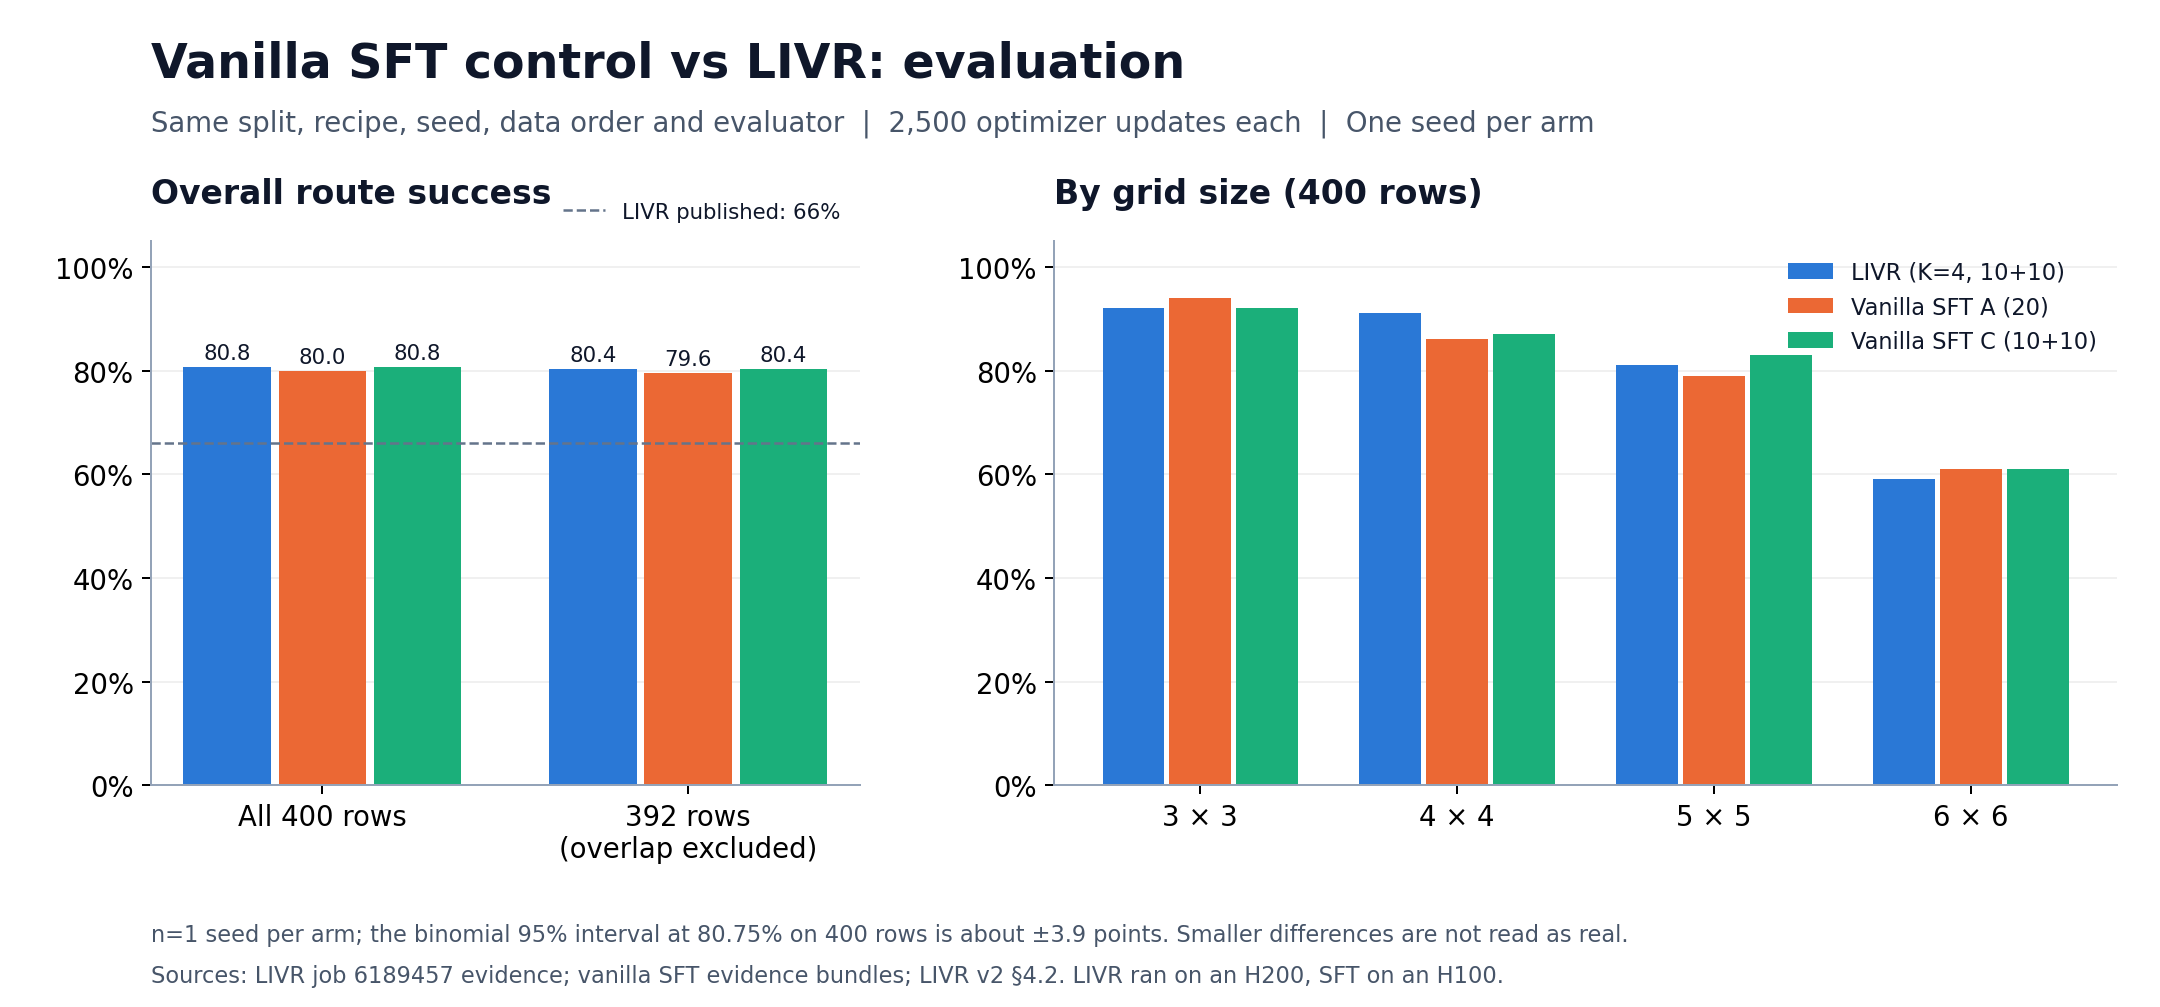
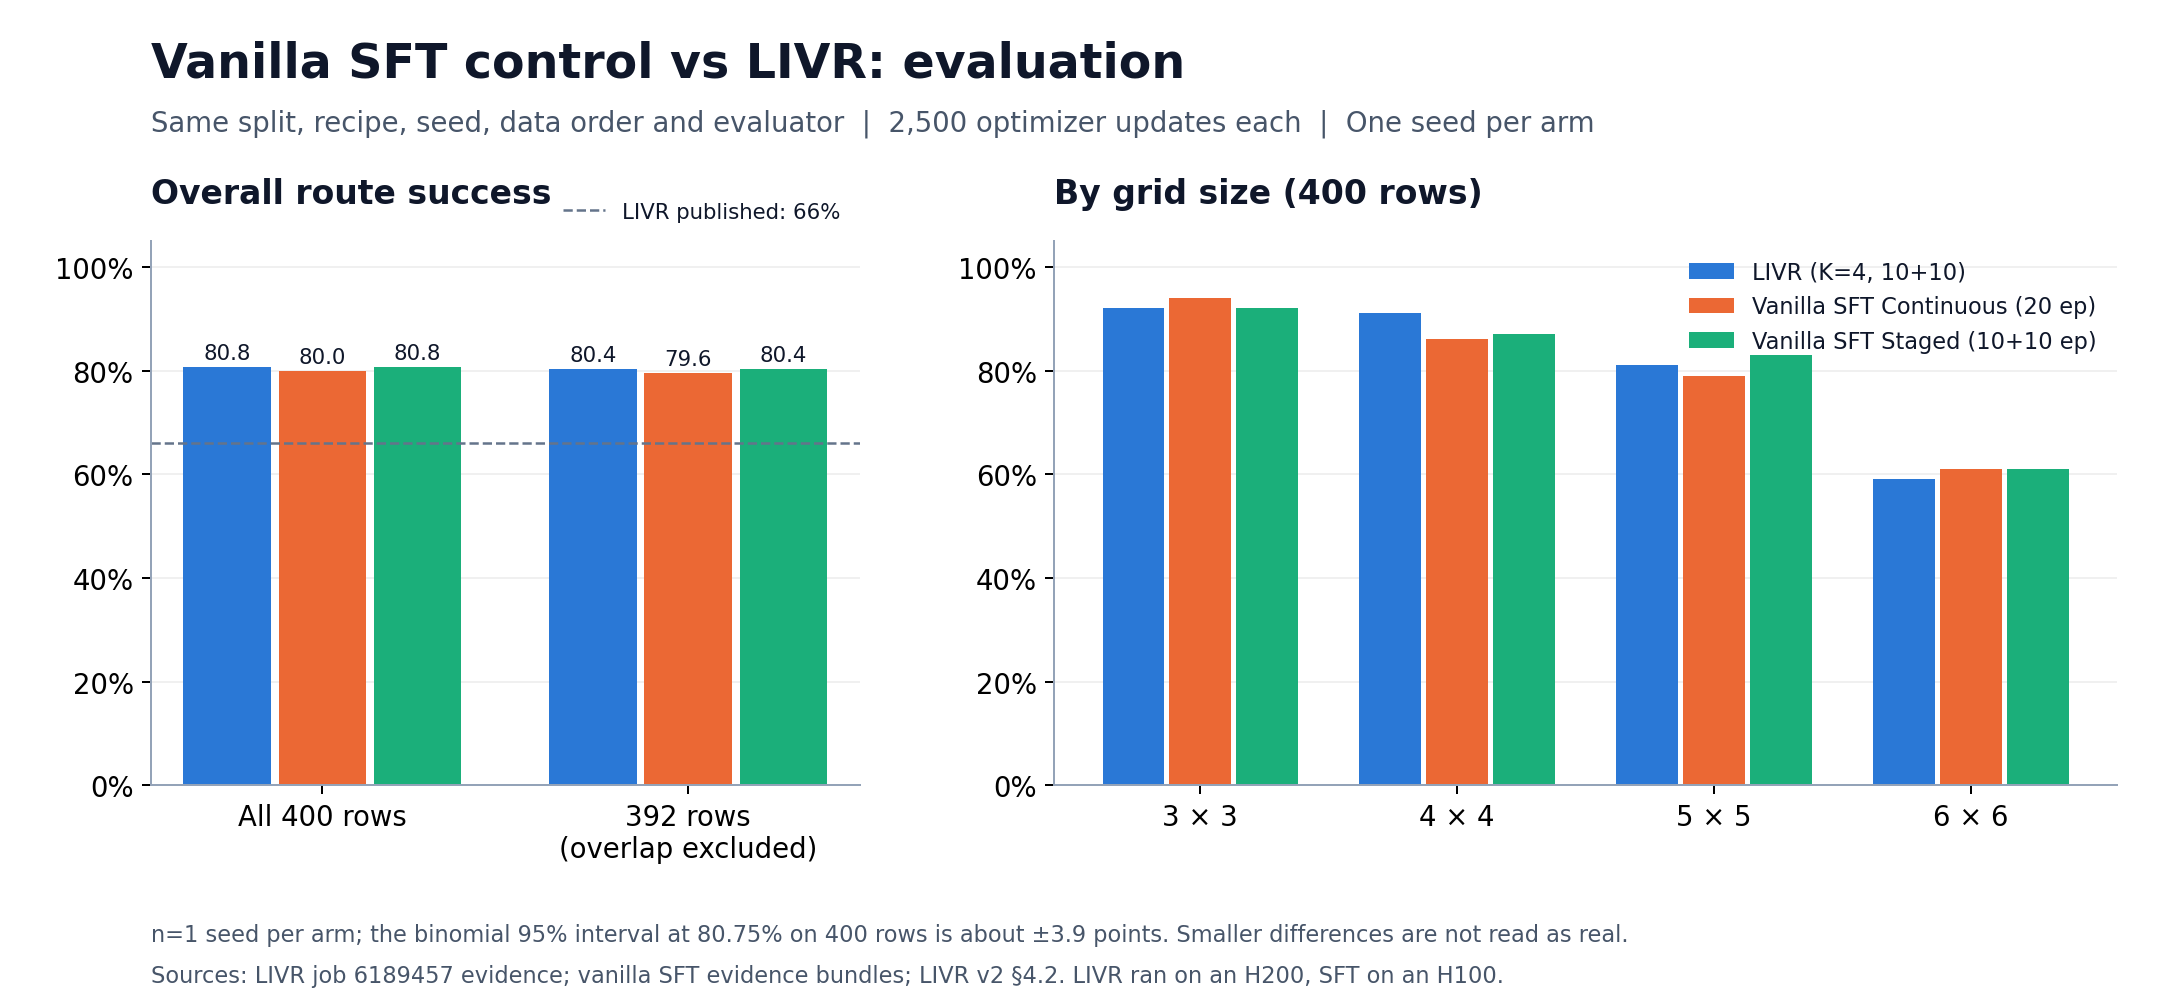
Update SFT runs' naming in results docs

Changed region(s): [[0.7755, 0.2463, 0.9616, 0.3694]]

diff --git a/scripts/plot_sft_comparison.py b/scripts/plot_sft_comparison.py
@@ -10,7 +10,7 @@ matplotlib.use("Agg")
 import matplotlib.pyplot as plt
 from matplotlib.ticker import PercentFormatter
 
-COLORS = ["#2a78d6", "#eb6834", "#1baf7a"]  # fixed categorical order: LIVR, SFT A, SFT C
+COLORS = ["#2a78d6", "#eb6834", "#1baf7a"]  # fixed categorical order: LIVR, Vanilla SFT Continuous (arm A), Vanilla SFT Staged (arm C)
 
 
 def load(evidence, step_files):
@@ -33,8 +33,8 @@ def main():
     parser.add_argument("--output", type=Path, default=project / "docs/figures")
     args = parser.parse_args()
     runs = [("LIVR (K=4, 10+10)", *load(project / "docs/experiments/livr-6189457", ["stage1-steps.jsonl", "stage2-steps.jsonl"])),
-            ("Vanilla SFT A (20)", *load(args.sft_a, ["train-steps.jsonl"])),
-            ("Vanilla SFT C (10+10)", *load(args.sft_c, ["segment1-steps.jsonl", "segment2-steps.jsonl"]))]
+            ("Vanilla SFT Continuous (20 ep)", *load(args.sft_a, ["train-steps.jsonl"])),
+            ("Vanilla SFT Staged (10+10 ep)", *load(args.sft_c, ["segment1-steps.jsonl", "segment2-steps.jsonl"]))]
     # Zero-based overlap rows recorded by the exporter; the test set is shared by all three runs.
     overlap, other = (set(json.loads((path / "evaluation-summary.json").read_text())["excluding_overlap"]["excluded_rows"])
                       for path in (args.sft_a, args.sft_c))
@@ -88,7 +88,7 @@ def main():
     fig, ax = plt.subplots(figsize=(11.4, 5.1))
     fig.subplots_adjust(left=.085, right=.98, top=.76, bottom=.2)
     fig.suptitle("Vanilla SFT control vs LIVR: training loss", x=.085, y=.96, ha="left", fontsize=19, fontweight="bold")
-    fig.text(.085, .865, "Epoch-mean answer-token loss over 20 epochs (125 updates each)  |  Dotted line: LIVR stage / C segment boundary", color="#475569")
+    fig.text(.085, .865, "Epoch-mean answer-token loss over 20 epochs (125 updates each)  |  Dotted line: LIVR stage / Staged restart", color="#475569")
     for color, (label, _, steps) in zip(COLORS, runs):
         by_epoch = defaultdict(list)
         for index, row in enumerate(steps):

diff --git a/docs/SFT_CONTROL_RESULTS.md b/docs/SFT_CONTROL_RESULTS.md
@@ -6,7 +6,7 @@ decision: [ADR-0004](adr/0004-reinstate-vanilla-sft-control.md).
 **On this split, at one seed each, the latent tokens contribute no measurable
 accuracy, and the gap to LIVR's published 66% is not attributable to the latent
 machinery.** Both Direct SFT arms land within ±2 points of the
-[LIVR baseline](LIVR_BASELINE_RESULTS.md) (80.75%). Arm C, which keeps LIVR's
+[LIVR baseline](LIVR_BASELINE_RESULTS.md) (80.75%). Vanilla SFT Staged, which keeps LIVR's
 10+10 segment structure, scored exactly LIVR's 323/400.
 
 This is "no difference detected", not "equal". There is one seed per arm, and the
@@ -16,11 +16,11 @@ inside noise. A seed-variance study is the next question and is out of scope her
 | Method | Optimizer updates | 400 rows | 392 rows | Source |
 | --- | ---: | ---: | ---: | --- |
 | LIVR, K=4, 10+10 epochs | 2,500 | 323/400 = 80.75% | 315/392 = 80.36% | job `6189457` |
-| Direct SFT (A), no latents, 20 epochs | 2,500 | 320/400 = 80.00% | 312/392 = 79.59% | [`sft-a-6259811`](experiments/sft-a-6259811/README.md) |
-| Direct SFT (C), no latents, 10+10 epochs | 2,500 | 323/400 = 80.75% | 315/392 = 80.36% | [`sft-c-6259811`](experiments/sft-c-6259811/README.md) |
+| Vanilla SFT Continuous: no latents, 20 epochs | 2,500 | 320/400 = 80.00% | 312/392 = 79.59% | [`sft-a-6259811`](experiments/sft-a-6259811/README.md) |
+| Vanilla SFT Staged: no latents, 10+10 epochs | 2,500 | 323/400 = 80.75% | 315/392 = 80.36% | [`sft-c-6259811`](experiments/sft-c-6259811/README.md) |
 | LIVR, published 3B | — | 66% | — | LIVR v2 §4.2 |
 
-| Grid | LIVR | SFT A | SFT C |
+| Grid | LIVR | Vanilla SFT Continuous | Vanilla SFT Staged |
 | --- | ---: | ---: | ---: |
 | 3 x 3 | 92 | 94 | 92 |
 | 4 x 4 | 91 | 86 | 87 |
@@ -32,9 +32,9 @@ Per grid, each cell is out of 100. No grid differs by more than 5 rows, and with
 100 rows per grid the per-grid intervals are about ±8–10 points.
 
 Paired by test row, the runs agree on most items rather than matching by chance
-totals. LIVR and C both succeed on 303 rows; each succeeds on 20 rows the other
-fails. LIVR and A: 303 both, 20 LIVR-only, 17 A-only. Exact two-sided McNemar
-p-values are 1.0 (LIVR/C), 0.74 (LIVR/A) and 0.75 (A/C). No answers were invalid
+totals. LIVR and Staged both succeed on 303 rows; each succeeds on 20 rows the other
+fails. LIVR and Continuous: 303 both, 20 LIVR-only, 17 Continuous-only. Exact two-sided McNemar
+p-values are 1.0 (LIVR vs Staged), 0.74 (LIVR vs Continuous) and 0.75 (Continuous vs Staged). No answers were invalid
 in any run.
 
 ![Overall and per-grid reference route success for LIVR and both Direct SFT arms](figures/sft-control-evaluation.png)
@@ -49,23 +49,23 @@ python scripts/plot_sft_comparison.py --sft-a docs/experiments/sft-a-6259811 --s
 
 The loss curves show training fit, not accuracy. Without the Stage-1 bottleneck,
 both SFT arms fit the training answers more tightly than LIVR (final epoch mean
-about 6e-5 for A and 4e-4 for C, against 1.2e-2 for LIVR). That tighter fit does
-not show up as a test-accuracy difference. C and LIVR both show a loss rise at
+about 6e-5 for Continuous and 4e-4 for Staged, against 1.2e-2 for LIVR). That tighter fit does
+not show up as a test-accuracy difference. Staged and LIVR both show a loss rise at
 epoch 11, where segment 2 / Stage 2 restarts with a fresh optimizer and a new
 warmup, so the rise is not specific to the change in LIVR's attention mask.
 
 ## What was controlled
 
 Both arms use the [LIVR recipe](../configs/livr.json) unchanged except for latent
-tokens (`latent_tokens: 0`) and the arm's epoch layout: [`configs/sft.json`](../configs/sft.json)
-(A, one 20-epoch segment, `order_cycle: 10`) and [`configs/sft-staged.json`](../configs/sft-staged.json)
-(C, two 10-epoch segments). The same seed, 1,000 training rows, per-epoch data
-order (A replays LIVR's ten permutations twice), learning-rate schedule, 400 test
+tokens (`latent_tokens: 0`) and the arm's epoch layout: Vanilla SFT Continuous, [`configs/sft.json`](../configs/sft.json)
+(plan arm A, one 20-epoch segment, `order_cycle: 10`), and Vanilla SFT Staged, [`configs/sft-staged.json`](../configs/sft-staged.json)
+(plan arm C, two 10-epoch segments). The same seed, 1,000 training rows, per-epoch data
+order (Continuous replays LIVR's ten permutations twice), learning-rate schedule, 400 test
 rows in original order, sampled generation settings and pinned reference
 evaluator were used. The input sequence is LIVR's minus exactly the four latent
 IDs: verified by `tests/test_sft_control.py` and by the pilot on the real processor
 and model. Trainable/frozen parameters (3,085,938,688 / 668,684,288) match LIVR's.
-C's segment 2 loads segment 1's weights with a fresh optimizer and restarted
+Staged's segment 2 loads segment 1's weights with a fresh optimizer and restarted
 warmup, as LIVR's Stage 2 does. No checkpoint was selected on test data and nothing
 was tuned.
 
@@ -77,11 +77,11 @@ Every logged loss and gradient norm was finite and both arms ended at learning r
 | Phase | GPU-seconds |
 | --- | ---: |
 | Pilot (2 steps, save, 2 evaluations; peak 55.6 GiB allocated) | ~134 |
-| A: train 20 epochs | 5,270 |
-| A: evaluate 400 rows | 329 |
-| C: segment 1 | 2,655 |
-| C: segment 2 | 2,720 |
-| C: evaluate 400 rows | 320 |
+| Continuous: train 20 epochs | 5,270 |
+| Continuous: evaluate 400 rows | 329 |
+| Staged: segment 1 | 2,655 |
+| Staged: segment 2 | 2,720 |
+| Staged: evaluate 400 rows | 320 |
 | Total | ~11,430 (3.2 hours) |
 
 Total use was 3.2 GPU-hours against the plan's 10-hour stop. An earlier allocation
@@ -95,7 +95,7 @@ retries were needed.
   `row_index` values used in the evidence are 37, 61, 108, 151, 268, 277, 343, 365.
   These are derived from the data by map layout, and they reproduce LIVR's 315/392.
 - **Optimizer state not kept.** The runner deletes `final/training_state.pt` after
-  each segment, keeping the ~15 GB weights instead of ~40 GB per checkpoint. C's
+  each segment, keeping the ~15 GB weights instead of ~40 GB per checkpoint. Staged's
   segment 2 uses a fresh optimizer, so nothing needed the state. Model weights stay
   on PACE scratch at `sft-run/results/6259811/` and are not committed.
 - **Hardware.** H100 rather than H200. The software stack (CUDA 12.4, torch 2.6.0,
